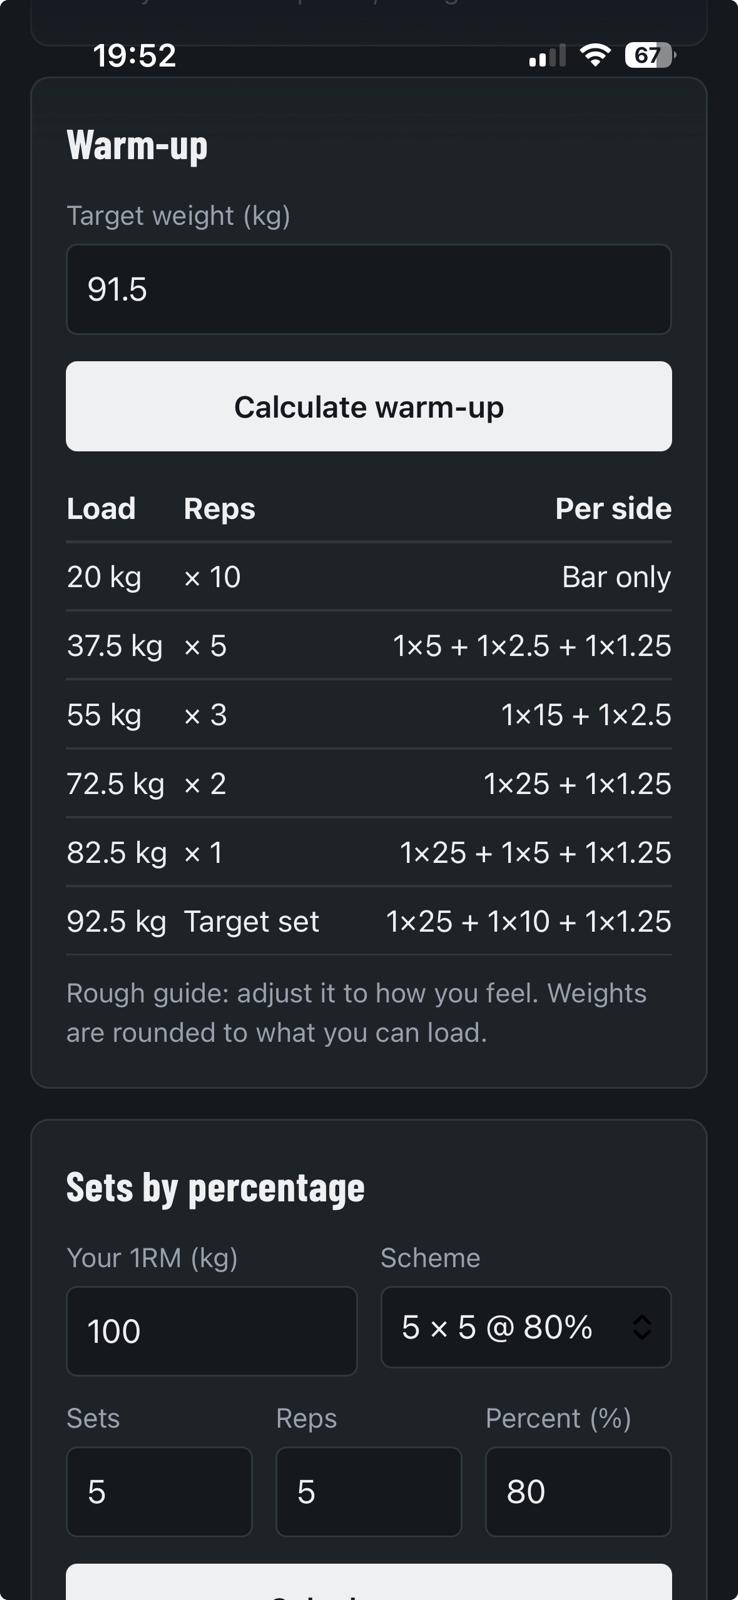
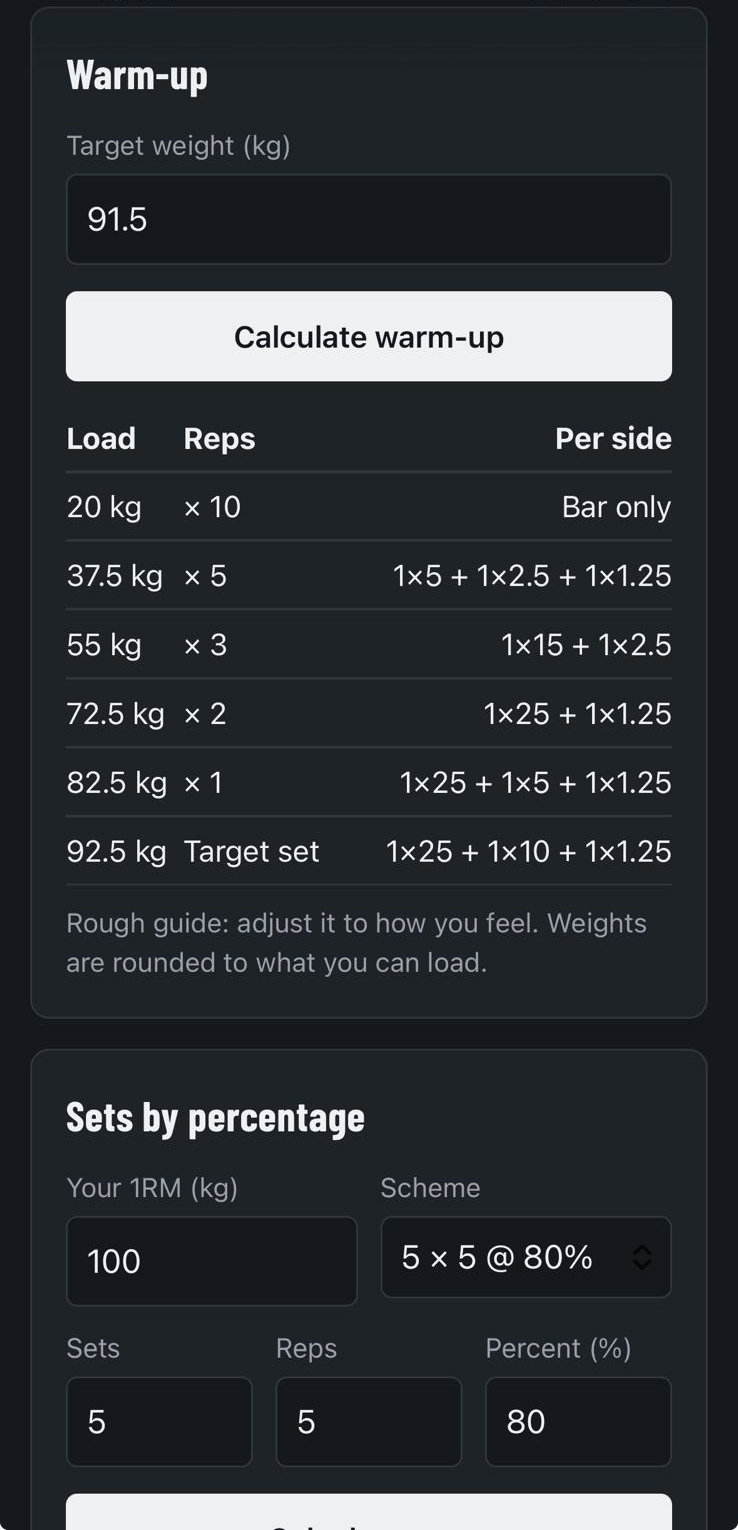
Add files via upload

diff --git a/README.md b/README.md
@@ -4,18 +4,17 @@ A small web tool for lifters: estimate your max, load the bar, warm up, plan set
 
 **Try it:** https://airizar00.github.io/Strength-Calculator/
 
-<table>
-  <tr>
-    <th align="center" width="33%">Calculators</th>
-    <th align="center" width="33%">History and records</th>
-    <th align="center" width="33%">On your phone</th>
-  </tr>
-  <tr>
-    <td><img src="screenshot-1.png" alt="Calculators"></td>
-    <td><img src="screenshot-2.png" alt="History and records"></td>
-    <td><img src="screenshot-3.png" alt="On your phone"></td>
-  </tr>
-</table>
+<p align="center">
+  <img src="screenshot-1.png" alt="Calculators: 1RM estimator and plate calculator" width="860">
+</p>
+
+<p align="center">
+  <img src="screenshot-2.png" alt="History, records and progress chart" width="400">
+  &nbsp;&nbsp;&nbsp;
+  <img src="screenshot-3.png" alt="The app on a phone" width="242">
+</p>
+
+<p align="center"><sub>Calculators &nbsp;·&nbsp; History and records &nbsp;·&nbsp; On your phone</sub></p>
 
 ## Features
 
